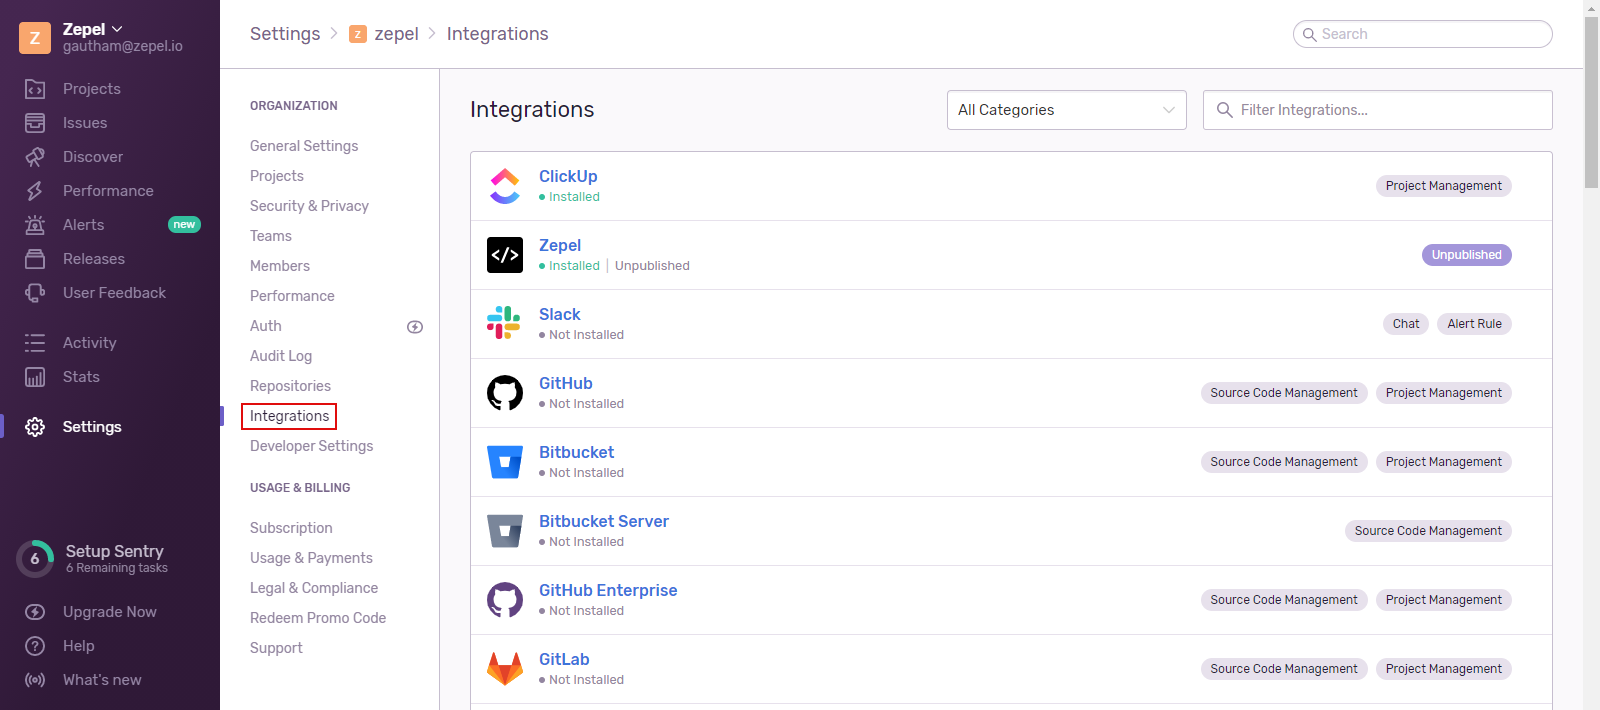
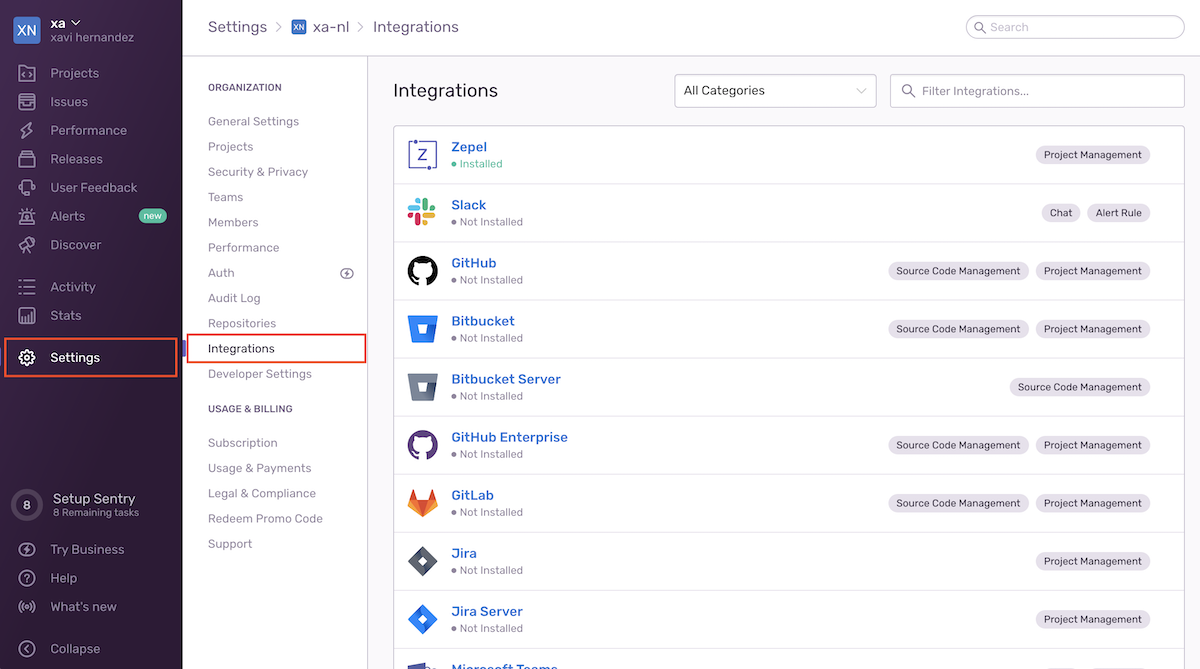
image updates & copy changes (#79)

diff --git a/guide/streams-catalog-trello.md b/guide/streams-catalog-trello.md
@@ -58,14 +58,14 @@ By connecting Trello with Zepel, your team now has a platform called Streams to 
 
 ![Add a board button in Zepel](/guide/assets/uploads/add-a-board-in-zepel.png)
 
-
+---
 ## Sending cards from Trello to Streams
 
 You can send any card as a request to Zepel Streams with the help of a simple label `Zepel`. To do that:
 
 - Go to your desired Trello board.
 
-*Note: You can send tasks from only those boards that have the Streams catalog of sources enabled.*
+*Note: You can send tasks only from the boards that are connected Streams in Zepel.*
 
 - Click on the card you wish to send as a request.
 

diff --git a/guide/streams-catalog-sentry.md b/guide/streams-catalog-sentry.md
@@ -44,7 +44,7 @@ Here’s how you set up the Sentry + Zepel integration and create or merge reque
 
 - Click on the `Accept & Install` button.  
 
-![Accept & Install Button in Sentry](/guide/assets/uploads/accept&install-in-sentry.png)
+![Accept & Install Button in Sentry](/guide/assets/uploads/accept-install-in-sentry.png)
 
 - On the page that appears, you will be asked to choose your Zepel account that you wish to connect with Sentry.
 
